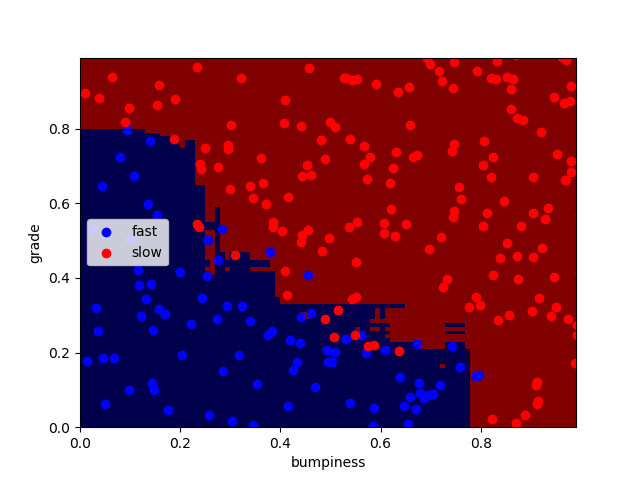
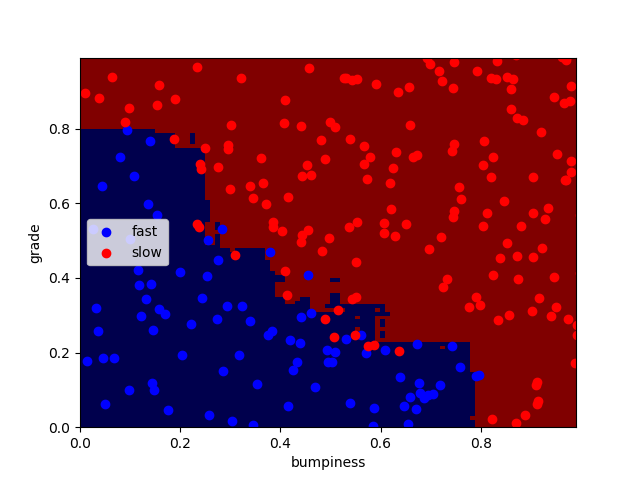
Explore enron dataset

diff --git a/datasets_questions/explore_enron_data.py b/datasets_questions/explore_enron_data.py
@@ -21,10 +21,40 @@ import pandas
 #enron_data = pickle.load(open("../final_project/final_project_dataset_unix.pkl", "rb"))
 enron_data = pandas.read_pickle("../final_project/final_project_dataset_unix.pkl")
 cnt = 0
+total = 0
+validSalaryCnt = 0
+validEmailCnt = 0
+validPaymentCnt = 0
+validPoiPaymentCnt = 0
 for ob in enron_data:
+    total += 1
     if enron_data[ob]["poi"]==1:
+        #print(ob," -> ",enron_data[ob])
+        if enron_data[ob]["total_payments"]!="NaN":
+            validPoiPaymentCnt += 1
         cnt += 1
+    if enron_data[ob]["salary"]!='NaN':
+        validSalaryCnt += 1
+    if enron_data[ob]["email_address"]!="NaN":
+        validEmailCnt += 1
+    if enron_data[ob]["total_payments"]!="NaN":
+        validPaymentCnt += 1
 
-print(cnt)
+print("Total POI amount =",cnt)
+"""
 print(len(enron_data))
 print(len(enron_data['METTS MARK']))
+print("James parentice stock =",enron_data["PRENTICE JAMES"]["total_stock_value"])
+print("Wesley Colwell messages to POI =",enron_data["COLWELL WESLEY"]['from_this_person_to_poi'])
+print("Jeff Skilling's exercised stock option =",enron_data["SKILLING JEFFREY K"]["exercised_stock_options"])
+
+print("Jeffrey Skilling =",enron_data["SKILLING JEFFREY K"]["total_payments"])
+print("Kenneth Lay =",enron_data["LAY KENNETH L"]["total_payments"])
+print("Andrew Fastow =",enron_data["FASTOW ANDREW S"]["total_payments"])
+"""
+
+print("Valid Salary amount =",validSalaryCnt)
+print("Valid Email amount =",validEmailCnt)
+print("Total suspect amount =",total)
+print("Valid Payment amount =",validPaymentCnt)
+print("Valid POI Payment amount =",validPoiPaymentCnt)

diff --git a/choose_your_own/your_algorithm.py b/choose_your_own/your_algorithm.py
@@ -33,7 +33,7 @@ plt.show()
 
 ### your code here!  name your classifier object clf if you want the
 ### visualization code (prettyPicture) to show you the decision boundary
-
+"""
 clf = neighbors.KNeighborsClassifier()
 t0 = time()
 clf.fit(features_train, labels_train)
@@ -45,9 +45,9 @@ print("K-nearest Prediction time :",round(time() - t1,3),"s")
 accuracy = clf.score(features_test, labels_test)
 
 print("K nearest neighbors accuracy",accuracy)
+"""
 
-
-
+"""
 clf = ensemble.AdaBoostClassifier()
 t0 = time()
 clf.fit(features_train, labels_train)
@@ -73,6 +73,8 @@ print("Random Forest Prediction time :",round(time() - t1,3),"s")
 accuracy = clf.score(features_test, labels_test)
 
 print("Random Forest Accuracy",accuracy)
+"""
+
 
 try:
     prettyPicture(clf, features_test, labels_test)
